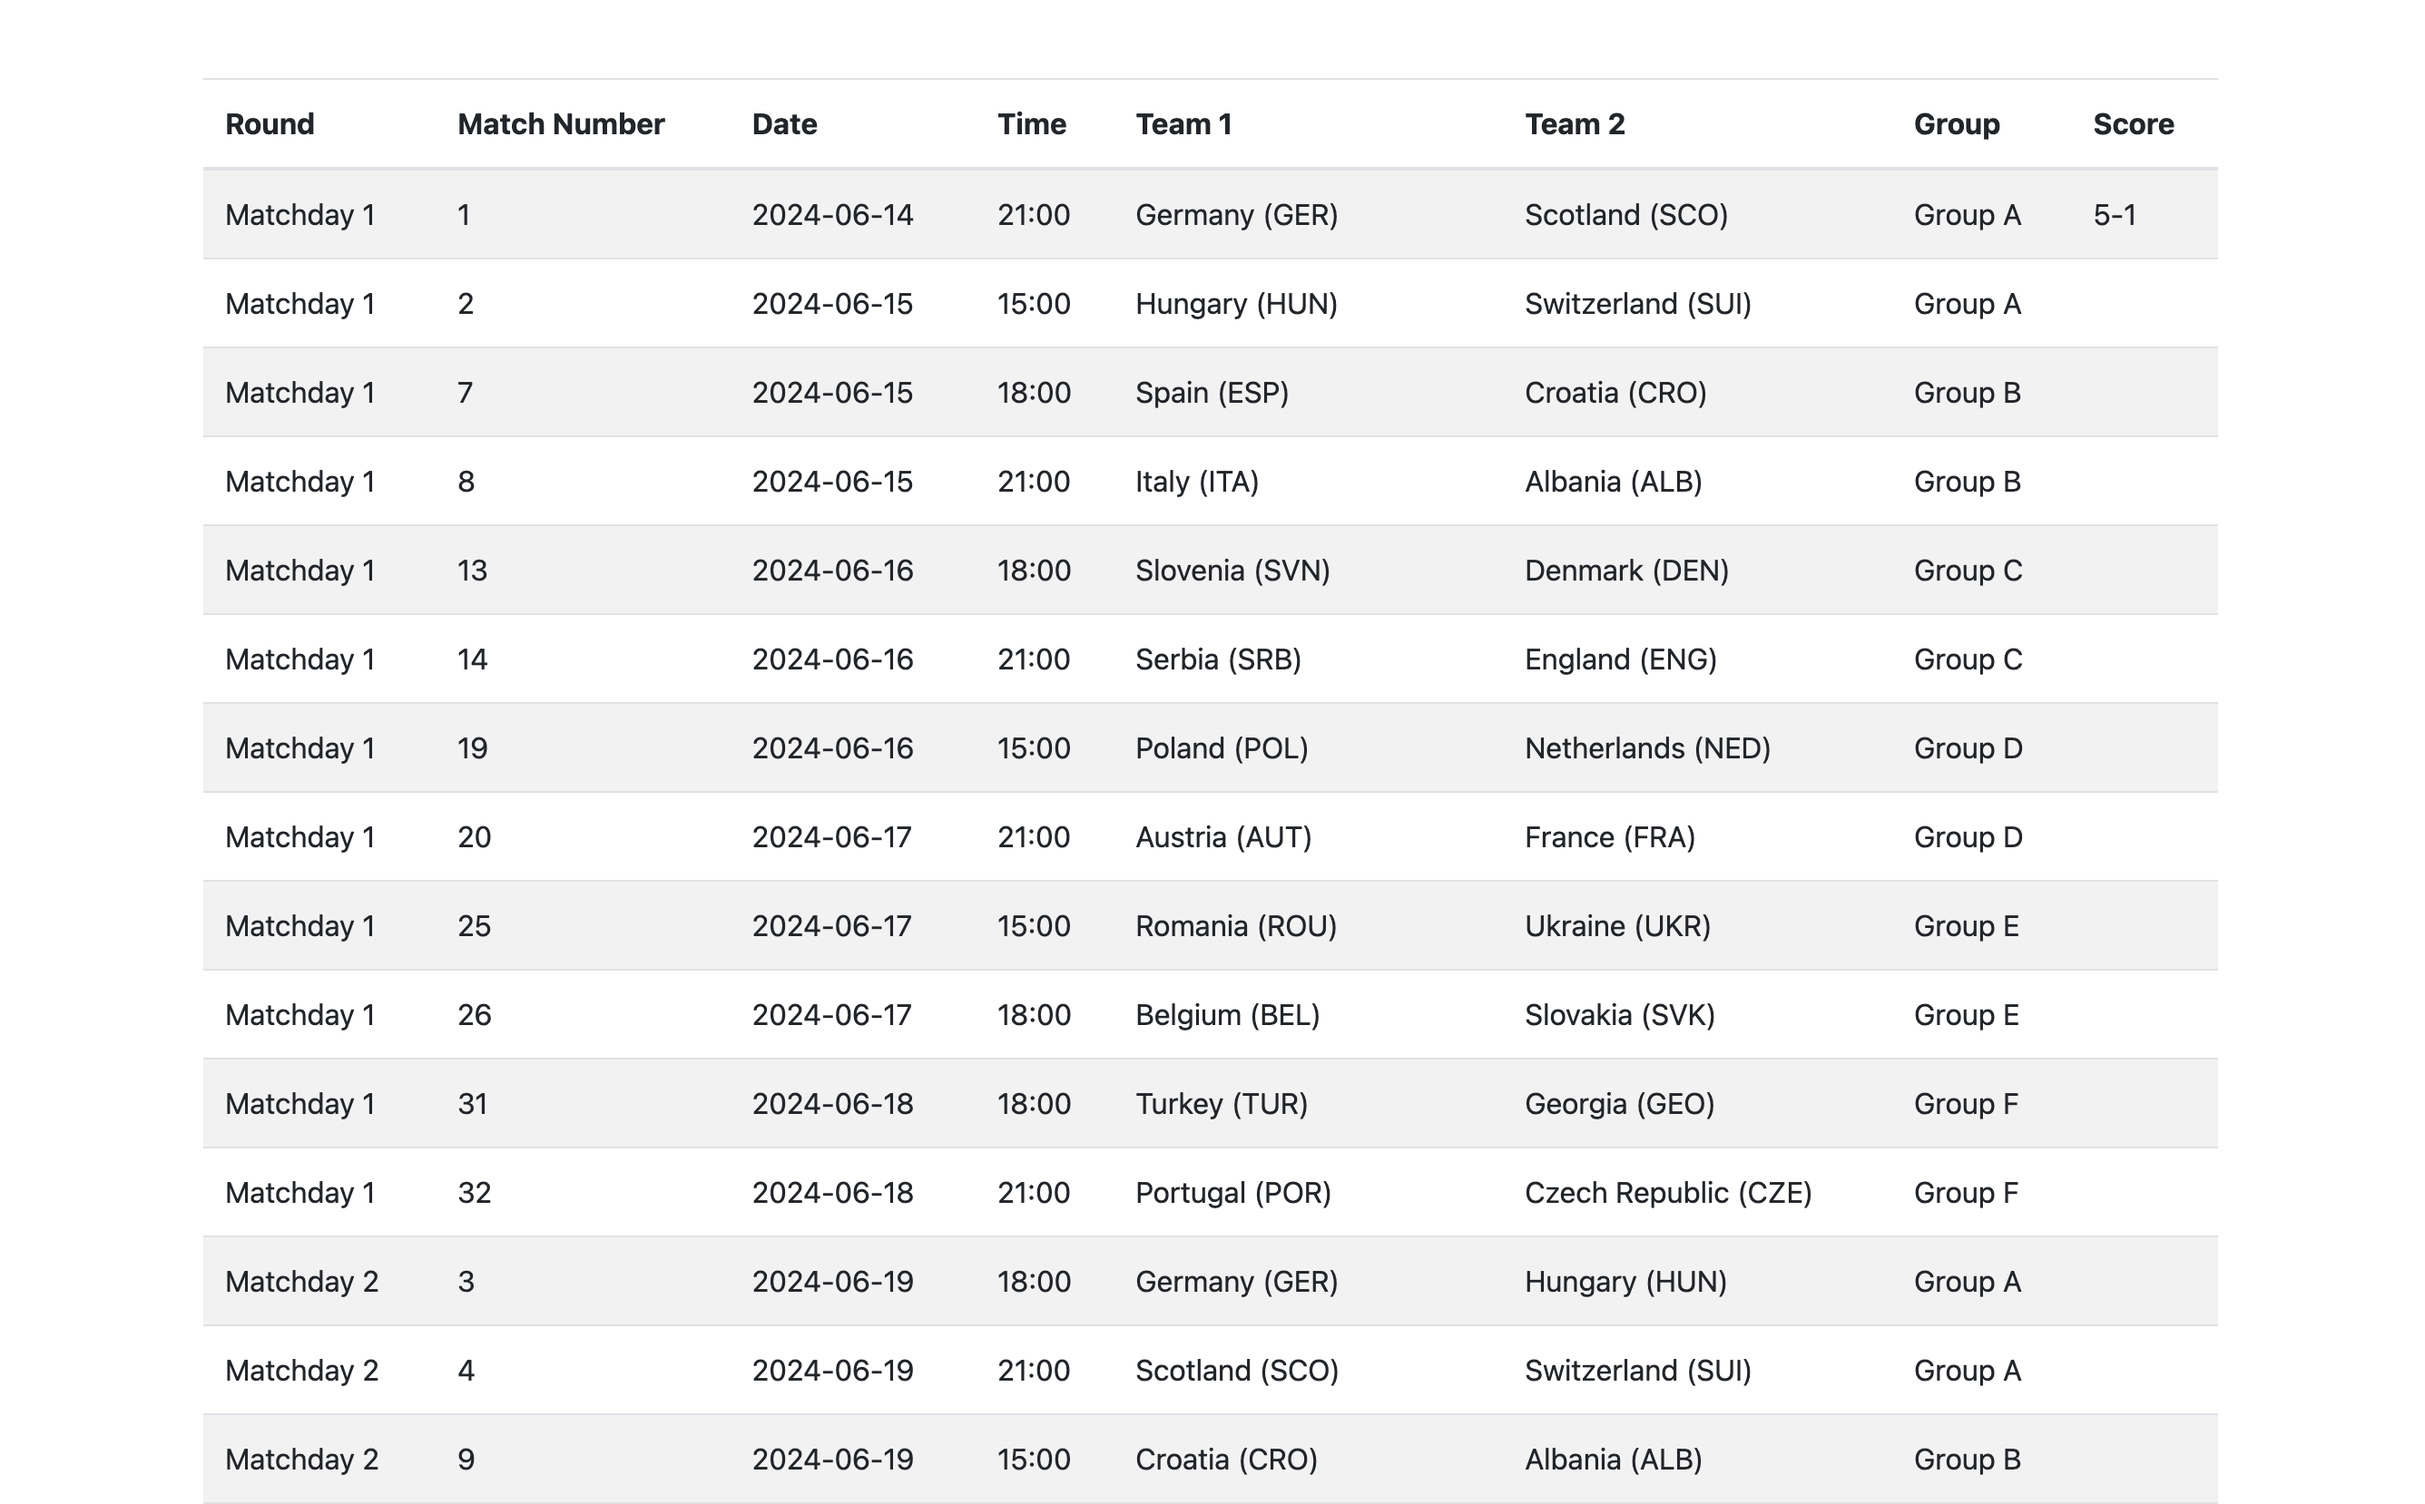
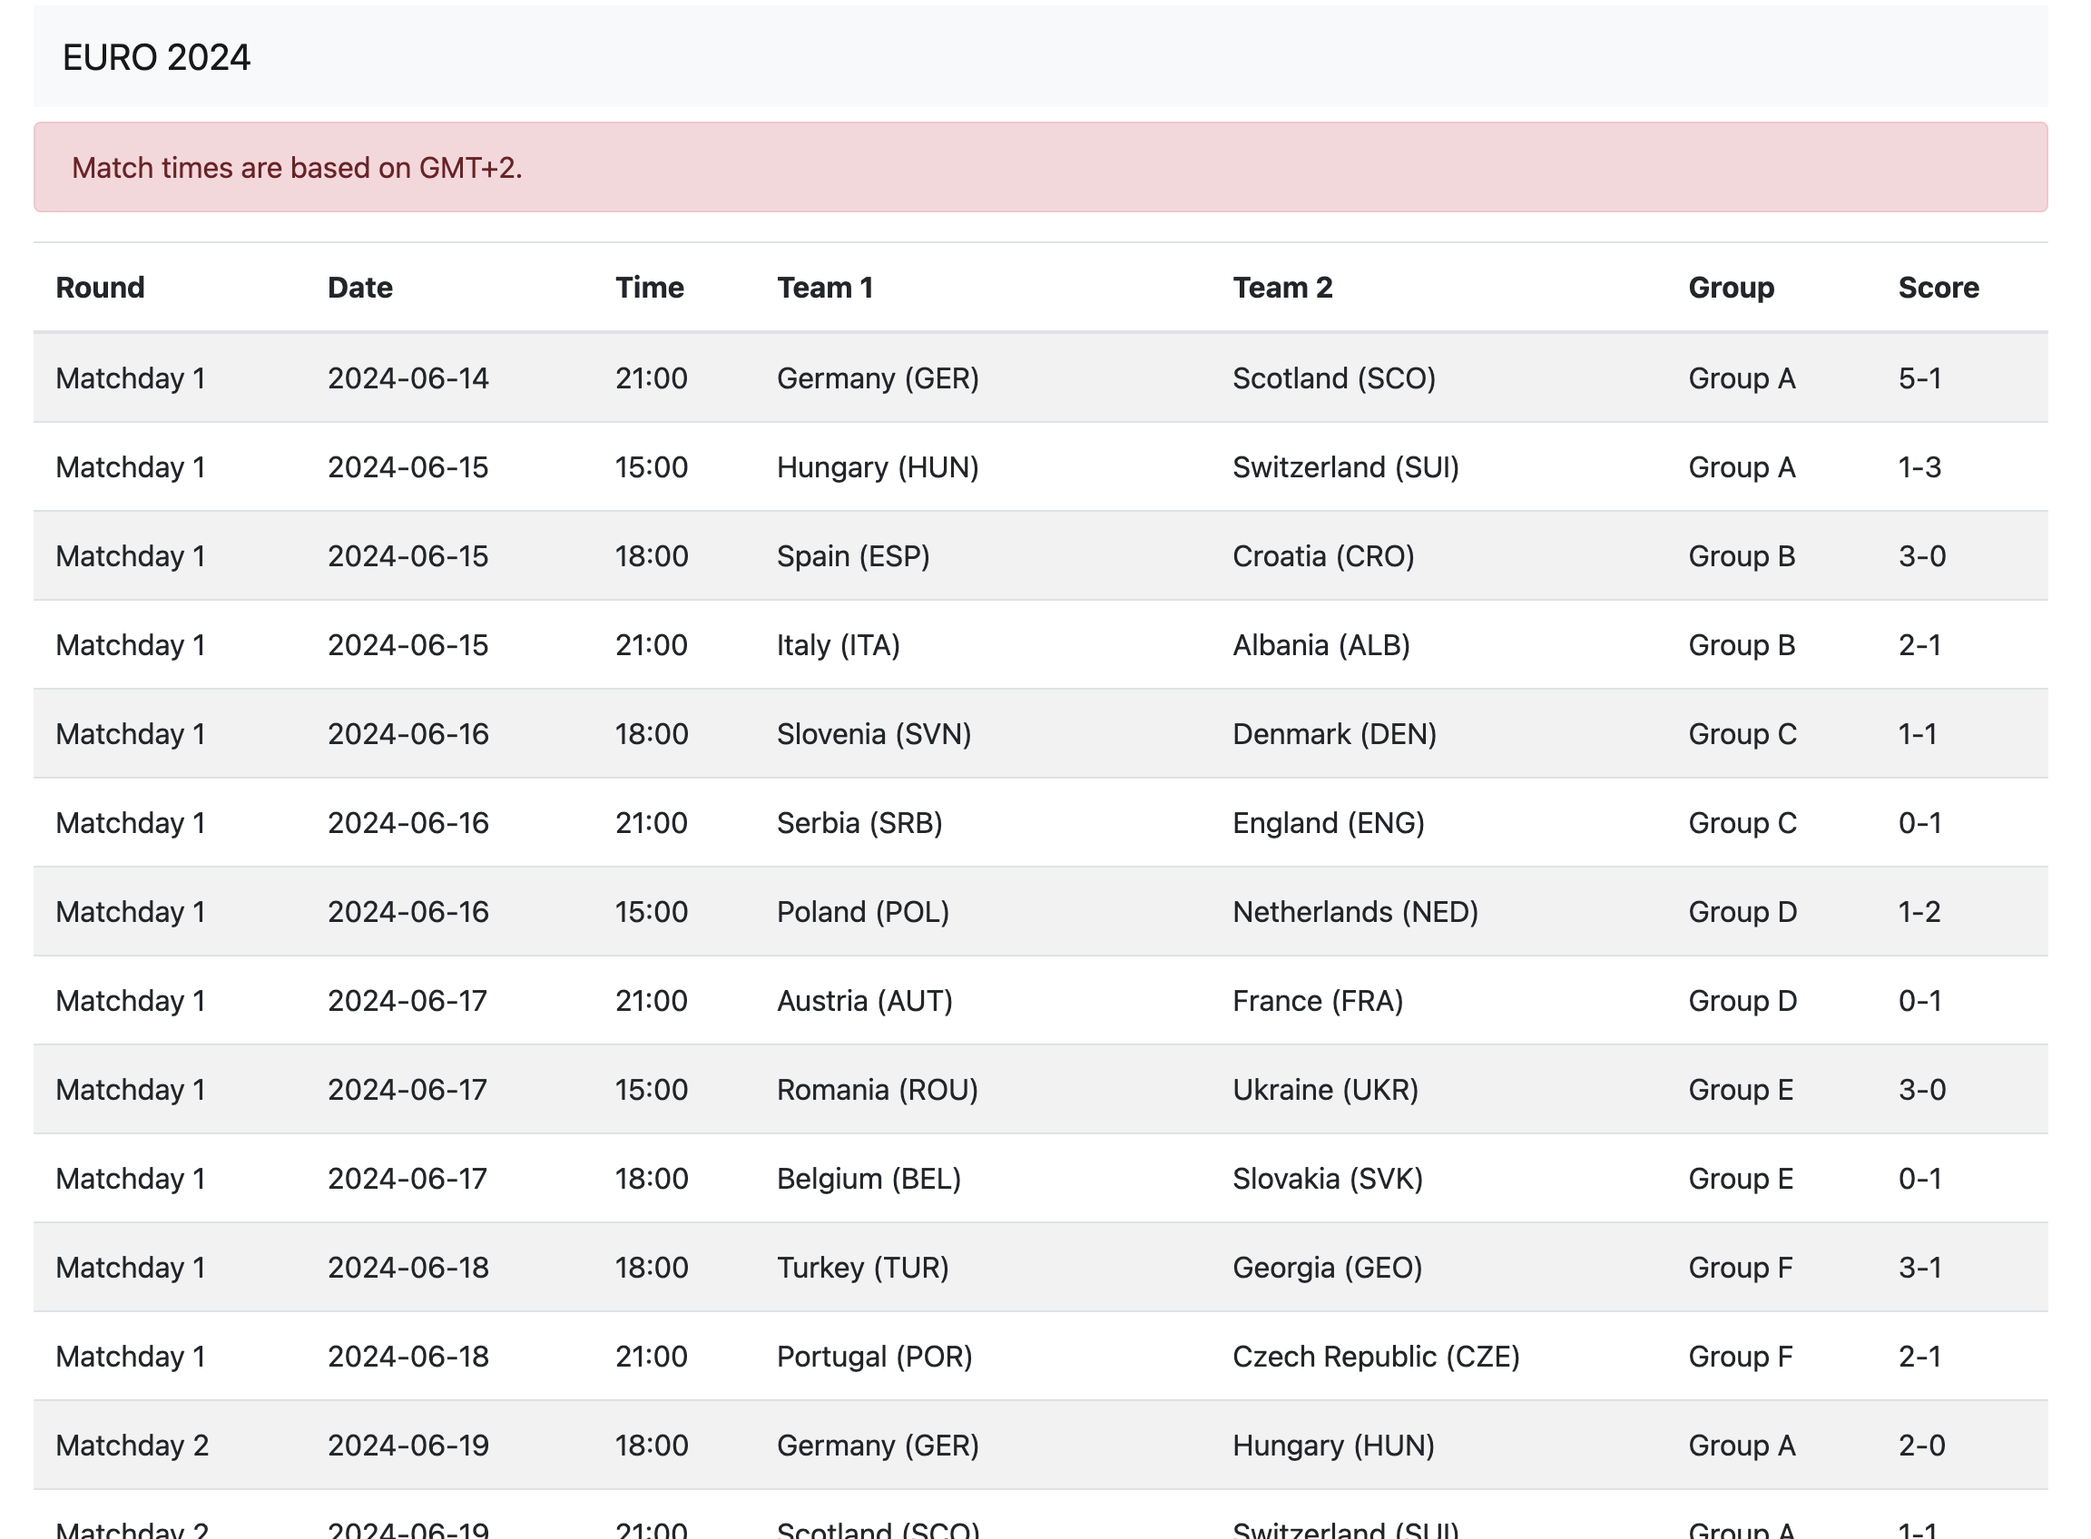
fix erros on index and prepare for new version.

diff --git a/index.php b/index.php
@@ -1,23 +1,15 @@
-<?php 
+<?php
 $json_file = 'data.json';
 $json_data = file_get_contents($json_file);
-
-// Check if file was successfully loaded
 if ($json_data === false) {
     die('Error reading JSON file');
 }
-
-// Decode JSON string into PHP associative array
 $data = json_decode($json_data, true);
 
-// Check if JSON decoding was successful
 if ($data === null) {
     die('Error decoding JSON');
 }
-
 ?>
-
-
 <!DOCTYPE html>
 <html lang="en">
 <head>
@@ -27,13 +19,16 @@ if ($data === null) {
     <link href="https://stackpath.bootstrapcdn.com/bootstrap/4.5.2/css/bootstrap.min.css" rel="stylesheet">
 </head>
 <body>
-    <div class="container mt-5">
+    <div class="container mt-2">
+        <nav class="navbar navbar-light bg-light"><a class="navbar-brand" href="./">EURO 2024</a></nav>
+
+        <div class="alert alert-danger mt-2" role="alert">Match times are based on GMT+2.</div>
+
         <?php if (!empty($data['rounds'])): ?>
             <table class="table table-striped">
                 <thead>
                     <tr>
                         <th>Round</th>
-                        <th>Match Number</th>
                         <th>Date</th>
                         <th>Time</th>
                         <th>Team 1</th>
@@ -47,7 +42,6 @@ if ($data === null) {
                         <?php foreach ($round['matches'] as $match): ?>
                             <tr>
                                 <td><?php echo $round['name']; ?></td>
-                                <td><?php echo $match['num']; ?></td>
                                 <td><?php echo $match['date']; ?></td>
                                 <td><?php echo $match['time']; ?></td>
                                 <td><?php echo $match['team1']['name'] . ' (' . $match['team1']['code'] . ')'; ?></td>
@@ -63,6 +57,10 @@ if ($data === null) {
             <p>No matches found.</p>
         <?php endif; ?>
     </div>
-
+<footer class="footer mt-auto p-3" style="background-color: #f5f5f5;">
+  <div class="container">
+    <span class="text-muted">Euro 2024</span>
+  </div>
+</footer>
 </body>
 </html>
